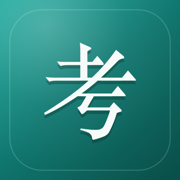
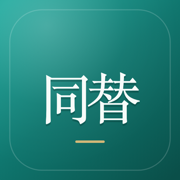
图标改为「同替」二字：横排、墨绿渐变 + 金线，同步升 SW 缓存版本

Changed region(s): [[0.2222, 0.2222, 0.7778, 0.8056]]

diff --git a/sw.js b/sw.js
@@ -1,7 +1,7 @@
 /* 雅思词汇真经 · Service Worker
    让站点可以「下载到本地」当 App 用：装完断网也能开。
    策略：静态资源 stale-while-revalidate（先给缓存，后台更新）。 */
-const VER = 'kd-v1';
+const VER = 'kd-v2';
 const CORE = [
   './',
   'index.html',
